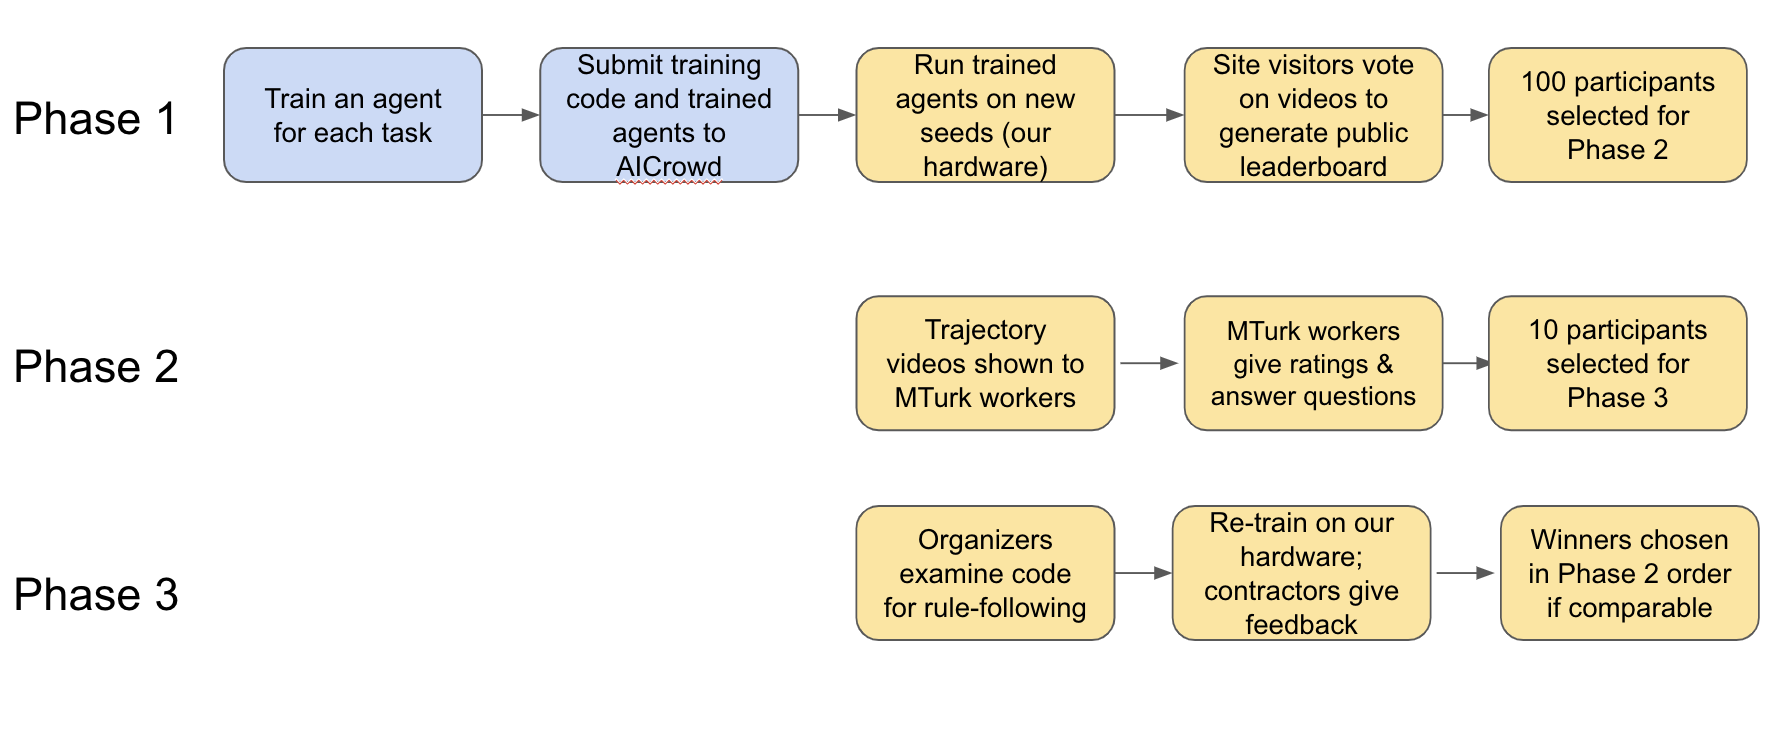
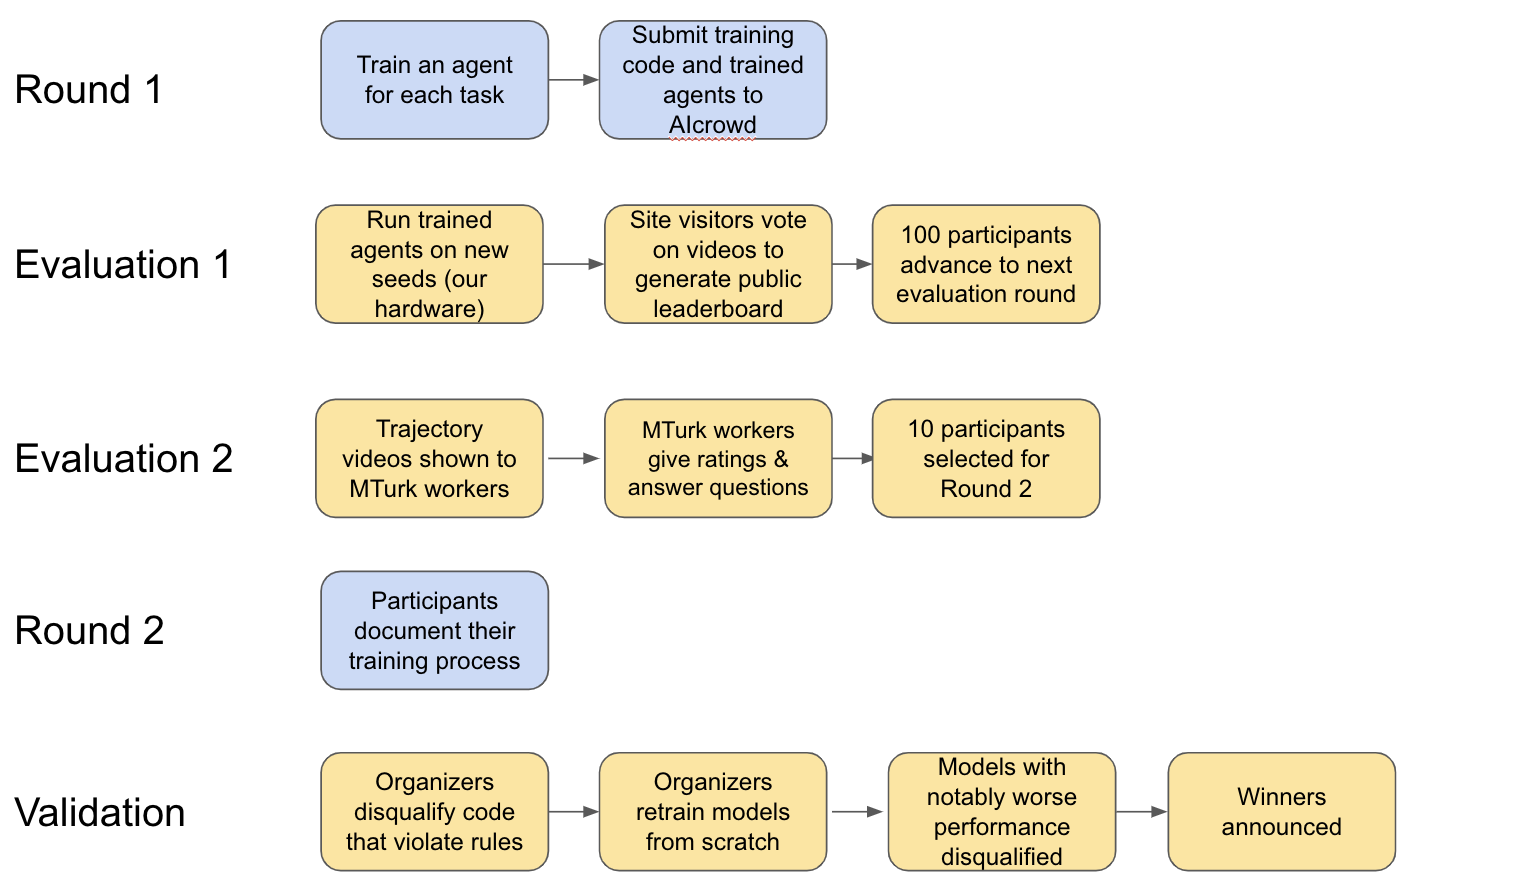
Update basalt diagram and fix typo in diamond page

diff --git a/basalt/index.md b/basalt/index.md
@@ -107,24 +107,29 @@ All submissions are through (TODO make link correct)
 </div>
 
 
-<h4 style="width: 100%; text-align: left;"> Round 1: Leaderboard </h4>
-1. Participants train agents to solve BASALT tasks. Participants submit both the training code as well as already-trained models for evaluation.
-2. Leaderboard ranks are determined by generating videos from already-trained models on new environment seeds, and having visitors to the competition site compare which of the videos they see is better.
-3. 100 participants move on to Round 2.
+<h4 style="width: 100%; text-align: left;"> Competition Round 1: Submit Trained Agents </h4>
+- Participants train agents to solve BASALT tasks. Participants submit both the training code as well as already-trained models for evaluation.
+
+<h4 style="width: 100%; text-align: left;"> Evaluation 1: Leaderboard </h4>
+- During the competition, leaderboard ranks will be determined by generating videos from already-trained models on new environment seeds, and having visitors to the competition site compare which of the videos they see is better.
+- 100 participants according to a combination of overall and per-task score move on to Evaluation
+
+<h4 style="width: 100%; text-align: left;"> Evaluation 2: Mechanical Turk </h4>
+- Submissions will be shown to Mechanical Turk workers, who will give numeric ratings as well as qualitative assessments.
+- The top 10 participants will advance to Round 2.
 
 
-<h4 style="width: 100%; text-align: left;"> Round 2: Mechanical Turk </h4>
-1. Submissions will be shown to Mechanical Turk workers, who will give numeric ratings as well as qualitative assessments.
-2. The top 10 participants will advance to Round 3.
+<h4 style="width: 100%; text-align: left;"> Competition Round 2: Examination and Re-Training </h4>
+- Participants submit documentation of their code, and instructions on how to provide human feedback to their training process.
 
-
-<h4 style="width: 100%; text-align: left;"> Round 3: Examination and Re-Training </h4>
-1. Participants submit documentation of their code, and instructions on how to providing human feedback when training the model.
-2. Competition organizers inspect the training code for remaining participants to ensure it follows competition rules.
-3. Models will be retrained on our hardware, with paid contractors providing human feedback if required. If the resulting models achieve significantly lower scores than found in Round 2, they are disqualified.
-4. The top 3 participants will present their solutions at NeurIPS.
+<h4 style="width: 100%; text-align: left;"> Retraining & Validation</h4>
+- Competition organizers inspect the training code for remaining participants to ensure it follows competition rules.
+- Models will be retrained on our hardware, with paid contractors providing human feedback if required. If the resulting models achieve significantly lower scores than found in Round 2, they are disqualified.
+- The top 3 participants will present their solutions at NeurIPS.
 
 <br/>
+
+
 
 <h3 style="width: 100%; text-align: center;"> The Tasks</h3>
 

diff --git a/diamond/index.md b/diamond/index.md
@@ -229,7 +229,7 @@ competition@minerl.io
     </div>
     <div>
         <!-- <h3>Paper</h3> -->
-        <h3><a href="https://arxiv.org/abs/1904.10079">NeurIPS 2020 Competition:  The MineRL Competition onSample Efficient Reinforcement Learning using Human Priors </a></h3>
+        <h3><a href="https://arxiv.org/abs/1904.10079">NeurIPS 2020 Competition:  The MineRL Competition on Sample Efficient Reinforcement Learning using Human Priors </a></h3>
         <!-- <h3>Citation</h3> -->
         <p>William H. Guss, Mario Ynocente Castro, Sam Devlin, Brandon Houghton, Noboru Sean Kuno, Crissman Loomis, Keisuke Nakata, Stephanie Milani, Sharada Mohanty, Ruslan Salakhutdinov, Shinya Shiroshita, John Schulman, Nicholay Topin, Avinash Ummadisingu, Oriol Vinyals</p>
         <p>NeurIPS 2020 Competition Track</p>
